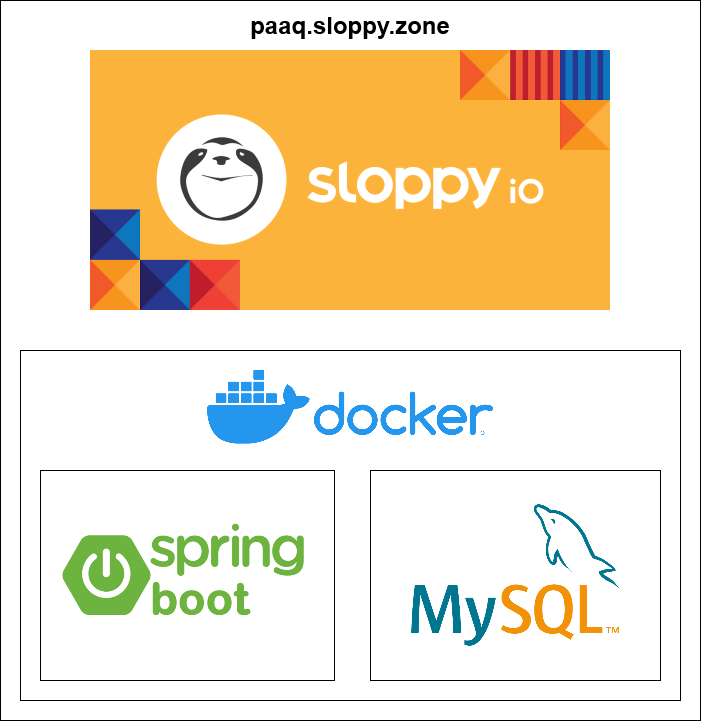
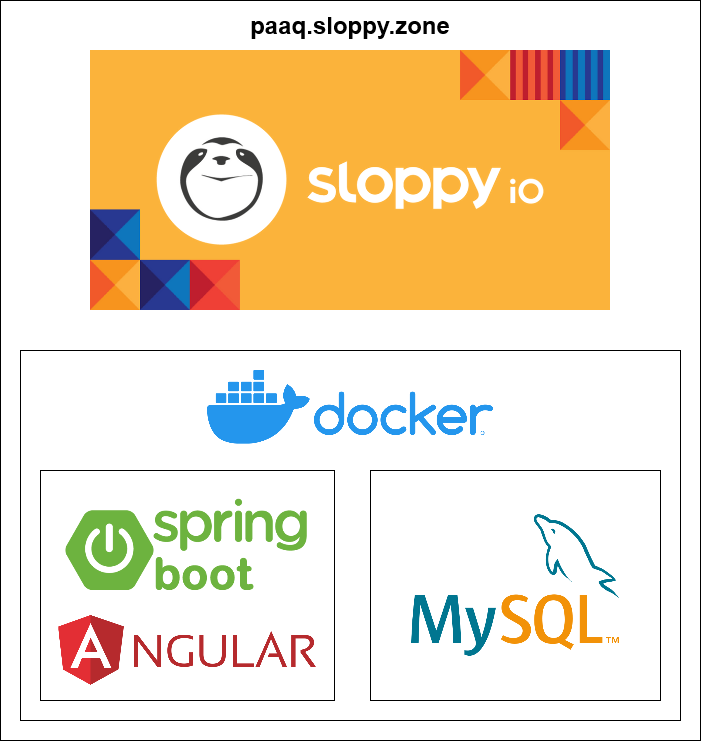
add docker in results and update picture

diff --git a/sections/results.tex b/sections/results.tex
@@ -55,8 +55,8 @@
 	
 	Als Datenbank-Schema haben wir das Schema der bisher vom Team der ZHAW Wädenswil gebrauchten Datenbank verwendet. Dies hauptsächlich deswegen, weil der Wunsch geäussert wurde, die alten Daten beizubehalten und auch den neuen Einarbeitungsaufwand klein zu halten.
 	
-	\subsubsection{Docker Image}
-	
+	\subsubsection{Docker}
+	Die zwei erwähnten Systeme laufen in drei \gls{docker} \gls{container}n da \gls{mysql} und \gls{phpmyadmin} in einzelnen \gls{container}n laufen. Alle drei \gls{container} sind in einem Containernetzwerk miteinander verbunden und können untereinander kommunizieren ohne dass der Verkehr nach aussen gelangt. Nur der \gls{springboot} \gls{container} und der \gls{phpmyadmin} \gls{container} ist von aussen erreichbar, da im Containernetzwerk ein \gls{portforwarding} für diese zwei \gls{container} eingerichtet wurden.
 	
 	\subsection{OpenAPI Generator und Swagger}
 	
